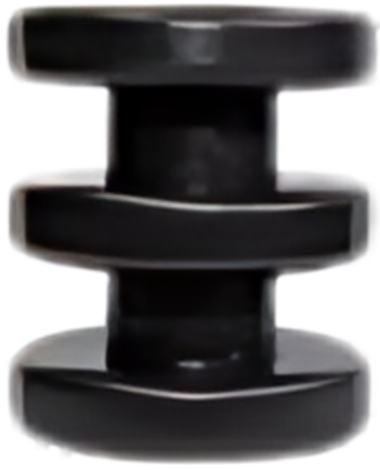
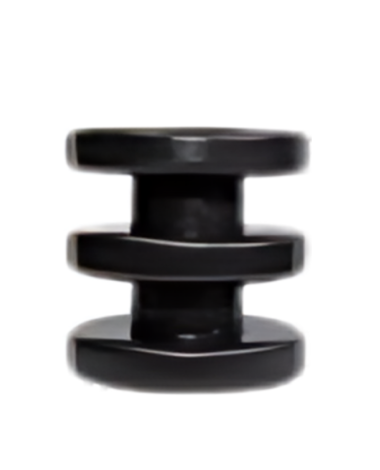
Adicionando ISOLADOR ROLDANA 2R (RANHURA).

diff --git a/content/Produto/isolador roldana 2r/produto1.html b/content/Produto/isolador roldana 2r/produto1.html
@@ -4,19 +4,19 @@
     <meta charset="UTF-8">
     <meta name="viewport" content="width=device-width, initial-scale=1.0">
     <title>Document</title>
-    <link rel="stylesheet" href="../../dist/css/main.css">
+    <link rel="stylesheet" href="../../../dist/css/main.css">
 </head>
 <body>
     <header class="header">
         <div class="header__container">
             <h1 class="header__logo">
                 <a href="">
-                    <img src="../../dist/images/Logo 1.png" alt="Logo da Dkw telecom">
+                    <img src="../../../dist/images/Logo 1.png" alt="Logo da Dkw telecom">
                 </a>
             </h1>
             <ul class="header__mainmenu">
                 <li class="header__mainmenu__link">
-                    <a href="../../index.html">HOME</a>
+                    <a href="../../../index.html">HOME</a>
                 </li>
                 <li class="header__mainmenu__link">
                     <a href="">PRODUTOS</a>
@@ -25,7 +25,7 @@
                     <a href="">SOBRE NÓS</a>
                 </li>
                 <li class="header__mainmenu__link">
-                    <a href="../contato.html">CONTATO</a>
+                    <a href="../../contato.html">CONTATO</a>
                 </li>
             </ul>
         </div>
@@ -34,16 +34,16 @@
     <section class="main-wrap">
         <div class="main-wrap__product">
             <div class="main-wrap__product__image-gallery">
-                <img src="../../dist/images/0-removebg-preview.png" id="productImg" alt="">
+                <img src="../../../dist/images/ISOLADOR ROLDANA 2R (RANHURA).png" id="productImg" alt="">
                 <div class="main-wrap__product__image-gallery__controls">
                     <span class="main-wrap__product__image-gallery__controls__btn main-wrap__product__image-gallery__controls__btn--is-active"></span>
                 </div>
             </div>
             <div class="main-wrap__product__product-details">
                 <div class="main-wrap__product__product-details__details">
-                    <h2>Suporte universal de passagem e ancoragem (SUPA)</h2>
+                    <h2>Isolador Roldana 2R (RANHURA)</h2>
                     <p>
-                        Desenvolvido especialmente para suspensão, ancoragem e passagem de cabos de fibra óptica, acomodando até 2 cabos simultaneamente, também usado para atendimento ao cliente em suas duas cavidades.
+                        Aplicação na suspensão dos cabos drops tanto ópticos ou metálicos.
                     </p>
                 </div>
                 <div class="main-wrap__product__product-details__colors">
@@ -94,19 +94,13 @@
         <div class="caracteristicas__topic">
             <h2>Características Técnicas:</h2>
             <p>
-                - PP COM PROTEÇÃO CONTRA RAIOS U.V.;
+                PP COM PROTEÇÃO CONTRA RAIOS U.V
             </p>
             <p>
-                - PARAFUSO COM CABEÇA SEXTAVADO, PORCA COM ENCAIXE PERFEITO, AMBOS EM AÇO COM ACABAMENTO SUPERFICIAL GALVANIZADO.;
+                DIMENSÃO: 3,7x3,7x3 cm
             </p>
             <p>
-                - DIMENSÃO: 9,5 x 5,7 x 8,8 cm / 3X1;
-            </p>
-            <p>
-                - PESO: 0,105 kg;
-            </p>
-            <p>
-                - TRAÇÃO: 717 kg;
+                PESO: 0,025 kg
             </p>
 
         </div>
@@ -115,7 +109,7 @@
 
     <footer data-aos="fade-right" class="footer">
         <div class="footer__logo">
-            <img src="../../dist/images/Logo 1.png" alt="Logo da Empresa Dkw Telecom">
+            <img src="../../../dist/images/Logo 1.png" alt="Logo da Empresa Dkw Telecom">
         </div>
         <div class="footer__container">
             <h3>Entre em Contato</h3>

diff --git a/index.html b/index.html
@@ -288,7 +288,7 @@
                     <!-- <p>
                         Aplicação na suspensão dos cabos drops tanto ópticos ou metálicos.
                     </p> -->
-                    <a href="#" class="shows__aba__item__button" id="button">Ver Produto</a>
+                    <a href="./content/Produto/isolador roldana 2r/produto1.html" class="shows__aba__item__button" id="button">Ver Produto</a>
                 </li>
                 <li class="shows__aba__item">
                     <a href="">
